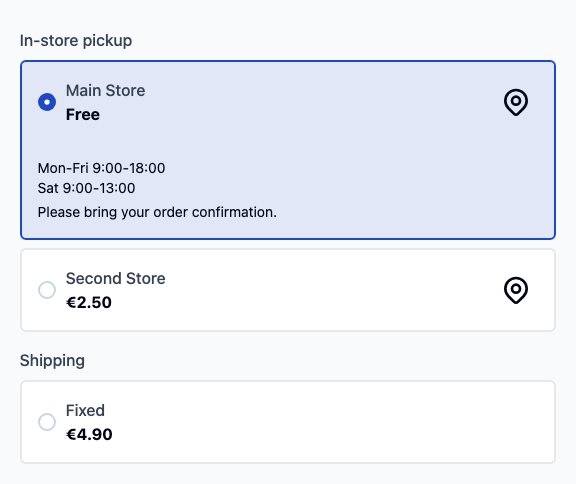
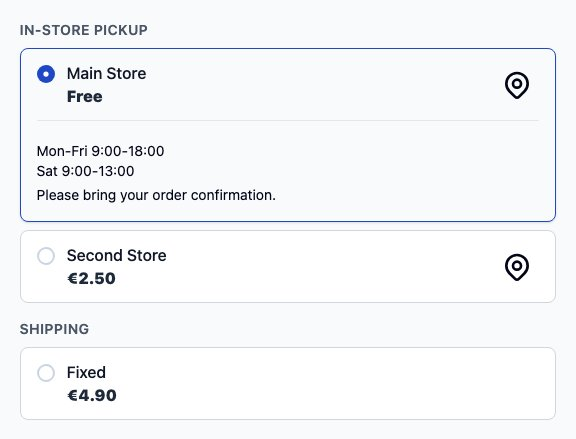
Update the rate display docs and screenshots (#12)
Closes #12

diff --git a/README.md b/README.md
@@ -52,10 +52,11 @@ bin/magento setup:upgrade
 
 The rate display modes:
 
-- `label`: a small, lighter line above the location name of each pickup rate.
-- `groups`: the pickup rates under one heading, then all other rates in Hyvä's order under a second one. A group
-  without rates has no heading.
-- `none`: Hyvä's own list, unchanged.
+- `label`: the module's list, with a small, lighter line above the location name of each pickup rate. Rates that are
+  not pickup rates look the same as without the module's line.
+- `groups`: the module's list, with the pickup rates under one heading and then all other rates in Hyvä's order under
+  a second one. The headings appear only when both groups have rates; otherwise the rates are listed without them.
+- `none`: Hyvä's own list template, unchanged.
 
 ![Pickup label above the pickup rates](docs/screenshots/hyva-checkout-pickup-rates-label.jpg)
 
@@ -78,7 +79,7 @@ runs in the browser beyond Hyvä's own Magewire requests.
 | Billing toggle | After-plugin on `AddressViewBilling::isVirtual` returns `true` for pickup quotes. Hyvä uses that method only to show the "same address" checkbox, so only the checkbox disappears. |
 | Invoice hint and banner | Blocks `checkout.billing-details.pp-pickup-hint` (in `checkout.billing-details.before`) and `checkout.pp-pickup-banner` (payment step of the default checkout, before the billing section). Both render nothing unless a pickup location is selected. "Change" reuses Hyvä's own navigation component; no JavaScript is added. |
 | Order summary | In the default checkout, the template of block `checkout.shipping-summary` is swapped for `checkout/shipping-summary.phtml`. For non-pickup quotes it delegates to Hyvä's own template, so delivery renders unchanged. |
-| Rate display | The template of the Magewire block `checkout.shipping.methods` is set to the module's `checkout/shipping/method-list.phtml`. While an available pickup rate is listed and the mode is not `none`, it renders the module's list through the ViewModel `PixelPerfect\StorePickupHyvaCheckout\ViewModel\MethodListView`; otherwise it renders Hyvä's `Hyva_Checkout::checkout/shipping/method-list.phtml` unchanged. |
+| Rate display | The template of the Magewire block `checkout.shipping.methods` is set to the module's `checkout/shipping/method-list.phtml`. In the modes `label` and `groups` it renders the module's list through the ViewModel `PixelPerfect\StorePickupHyvaCheckout\ViewModel\MethodListView`, estimating the rates once per render. In the mode `none` it renders Hyvä's `Hyva_Checkout::checkout/shipping/method-list.phtml` without estimating the rates itself. |
 | Details under the rate | Plugin on the ViewModel method `MethodList::getAdditionalViewBlock` returns the child block `checkout.shipping.method.pppickup` (alias `pppickup`) of `checkout.shipping.methods`. |
 
 ![Opening hours and note under the selected pickup rate](docs/screenshots/hyva-checkout-pickup-rate-details.jpg)
@@ -108,13 +109,22 @@ Override the templates in your theme, under the same module path
 The item and group templates render in the context of block `checkout.shipping.methods`, so `$magewire` and Hyvä's
 view models are available as in Hyvä's own list. Instead of overriding them in the theme, you can point the block
 arguments `pp_method_item_template` and `pp_method_group_template` of `checkout.shipping.methods` to other templates.
+A template named there that cannot be found is logged to the store pickup log, and the default template is used.
 
-The module's list replaces Hyvä's list template while a pickup rate is listed. If your theme or another module
-customises `Hyva_Checkout::checkout/shipping/method-list.phtml`, those changes do not show in the module's list (they
-still show when no pickup rate is listed). Set the rate display to `none` to keep Hyvä's template, and with it your
-customisation, at all times. The module's list keeps Hyvä's contract: the radios with `wire:model="method"`, the
-`hyvaCheckoutShippingMethodOption` Alpine component with `data-disabled`, the rate error message, the metadata icon,
-the additional view of the selected rate and the incl./excl. tax display.
+In the modes `label` and `groups` the module's list replaces Hyvä's list template, also when no pickup rate is listed.
+If your theme or another module customises `Hyva_Checkout::checkout/shipping/method-list.phtml` (a theme file
+override), those changes do not show; set the rate display to `none` to keep Hyvä's template, and with it your
+customisation. A theme or module that sets another template on `checkout.shipping.methods` through layout XML
+(`<referenceBlock name="checkout.shipping.methods" template="…"/>`) competes with this module's layout: the layout
+loaded last wins. If yours wins, the label and groups are off whatever the setting says; if this module's wins, your
+template is not used, and `none` does not bring it back (it renders Hyvä's template). In that case render the module's
+template from yours, or keep one of the two.
+
+The module's list keeps Hyvä's contract: the radios with `wire:model="method"` and value `<carrier>_<method>`, the
+`hyvaCheckoutShippingMethodOption` Alpine component with `data-disabled`, the `active`/`inactive` state class, the
+rate error message, the metadata icon, the additional view of the selected rate and the incl./excl. tax display. Its
+markup and styling are its own; `wire:key` is the full `<carrier>_<method>` value, so method codes shared by
+different carriers cannot collide.
 
 All blocks except the method list get the ViewModel `PixelPerfect\StorePickupHyvaCheckout\ViewModel\PickupLocationView`. The layout
 is in `view/frontend/layout/`: the summary swap in `hyva_checkout_default.xml`, the banner in

diff --git a/CHANGELOG.md b/CHANGELOG.md
@@ -17,6 +17,6 @@ The format follows [Keep a Changelog](https://keepachangelog.com/en/1.1.0/).
 - Pickup icon (map pin) on the pickup rates, shared with the payment step banner and the summary card. Configurable through the `iconPath` argument of the `PickupIcon` ViewModel.
 - Section heading "Pickup location" instead of "Shipping Address" while the pickup card is shown, flipping live with the rate.
 - "Free" instead of a zero amount on zero-priced rates in the shipping method list; switch off with the `enabled` argument of `ShowFreeShippingRates`.
-- Pickup rates recognisable in the shipping method list: a small "In-store pickup" label above the location name, or separate pickup and shipping groups. Chosen per store view in Stores > Configuration > Sales > Store Pickup > Hyvä Checkout (`label`, `groups`, or `none` for Hyvä's own list), with optional texts. List, item and group templates are overridable.
+- Pickup rates recognisable in the shipping method list: a small "In-store pickup" label above the location name, or separate pickup and shipping groups. Chosen per store view in Stores > Configuration > Sales > Store Pickup > Hyvä Checkout (`label`, `groups`, or `none` for Hyvä's own list), with optional texts. In `label` and `groups` the module renders its own list (own markup, Hyvä's Magewire/Alpine contract); list, item and group templates are overridable.
 - Translations for `en_US`, `de_DE` and `it_IT`.
 - README with requirements, installation, customising, known limits and screenshots.
